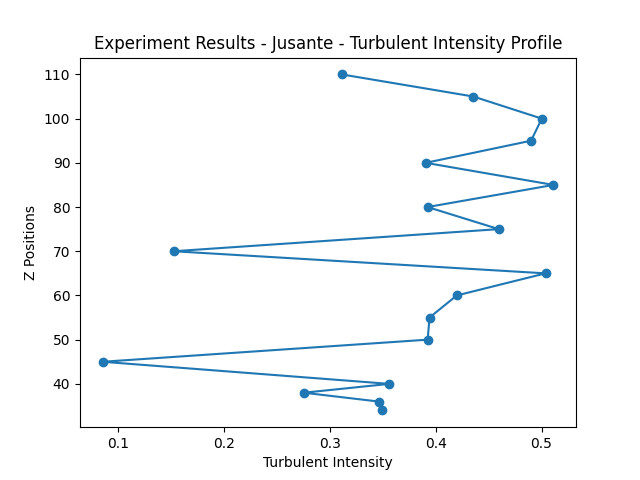
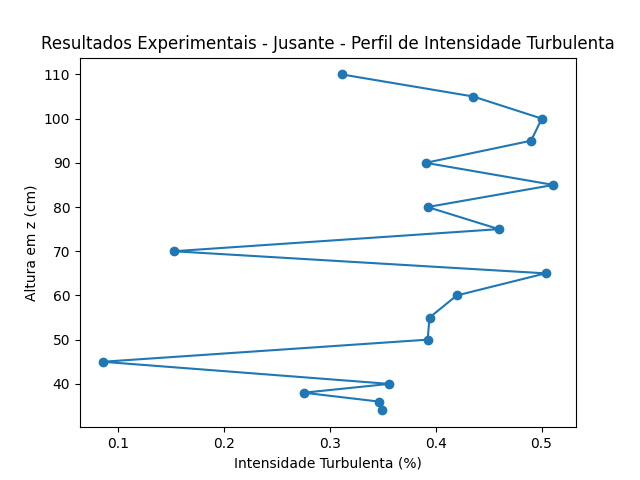
run main and generated figs

Changed region(s): [[0.0625, 0.0625, 0.9688, 0.125], [0.375, 0.9375, 0.6562, 1.0], [0.0312, 0.375, 0.0625, 0.625]]

diff --git a/output_fn.py b/output_fn.py
@@ -35,9 +35,14 @@ def plot_density_probability(experimental_data, filename):
     sigma = experimental_data.standard_deviation
     x = np.linspace(min(experimental_data.raw_speed), max(experimental_data.raw_speed), 100)
     y = (1 / (sigma * np.sqrt(2 * np.pi))) * np.exp(-0.5 * ((x - mu) / sigma) ** 2)
-    plt.plot(x, y, color='red', label='Gaussian Density of Probability')
+    plt.plot(x, y, color='red', label='Densidade de Probabilidade')
+    sigma_normal = 1
+    y_normal = (1 / (sigma_normal * np.sqrt(2 * np.pi))) * np.exp(-0.5 * ((x - mu) / sigma_normal) ** 2)
+    plt.plot(x, y_normal, color = 'green', label = 'Densidade Gaussiana Normal')
     plt.hist(experimental_data.raw_speed, density=True, bins=20, alpha=0.5, label='Experimental Density of Probability')
-    plt.title(f'Experiment Results - {filename} - Density of Probability')
+    plt.xlabel('Velocidade (m/s)')
+    plt.ylabel('Contagem')
+    plt.title(f'Resultados Experimentais - {filename} - Densidade de Probabilidade')
     plt.legend()
     plt.savefig(f'images/plots/{filename}_density_probability_plot.png')
     plt.close()
@@ -51,9 +56,9 @@ def plot_raw_speed_time(experimental_data, filename):
     - filename (str): Name of the file for saving the plot.
     """
     plt.plot(experimental_data.raw_time, experimental_data.raw_speed)
-    plt.xlabel('Time')
-    plt.ylabel('Speed')
-    plt.title(f'Experiment Results - {filename} - Raw Speed vs Raw Time')
+    plt.xlabel('Tempo (s)')
+    plt.ylabel('Velocidade (m/s)')
+    plt.title(f'EResultados Experimentais - {filename} - Tempo vs Velocidade')
     plt.savefig(f'images/plots/{filename}_raw_speed_time_plot.png', dpi=300)
     plt.close()
 
@@ -68,9 +73,9 @@ def plot_profile_speed(speed, z_positions, description):
     """
     plt.plot(speed, z_positions)
     plt.scatter(speed, z_positions)
-    plt.xlabel('Speed')
-    plt.ylabel('Z Positions')
-    plt.title(f'Experiment Results - {description} - Speed Profile')
+    plt.xlabel('Velocidade (m/s)')
+    plt.ylabel('Altura z (cm)')
+    plt.title(f'Resultados Experimentais - {description} - Perfil de Velocidade')
     plt.savefig(f'images/plots/{description}_speed_profile_plot.png')
     plt.close()
 
@@ -85,8 +90,8 @@ def plot_profile_turbulent_intensity(turbulent_intensity, z_positions, descripti
     """
     plt.scatter(turbulent_intensity, z_positions)
     plt.plot(turbulent_intensity, z_positions)
-    plt.xlabel('Turbulent Intensity')
-    plt.ylabel('Z Positions')
-    plt.title(f'Experiment Results - {description} - Turbulent Intensity Profile')
+    plt.xlabel('Intensidade Turbulenta (%)')
+    plt.ylabel('Altura em z (cm)')
+    plt.title(f'Resultados Experimentais - {description} - Perfil de Intensidade Turbulenta')
     plt.savefig(f'images/plots/{description}_turbulent_intensity_profile_plot.png')
     plt.close()
